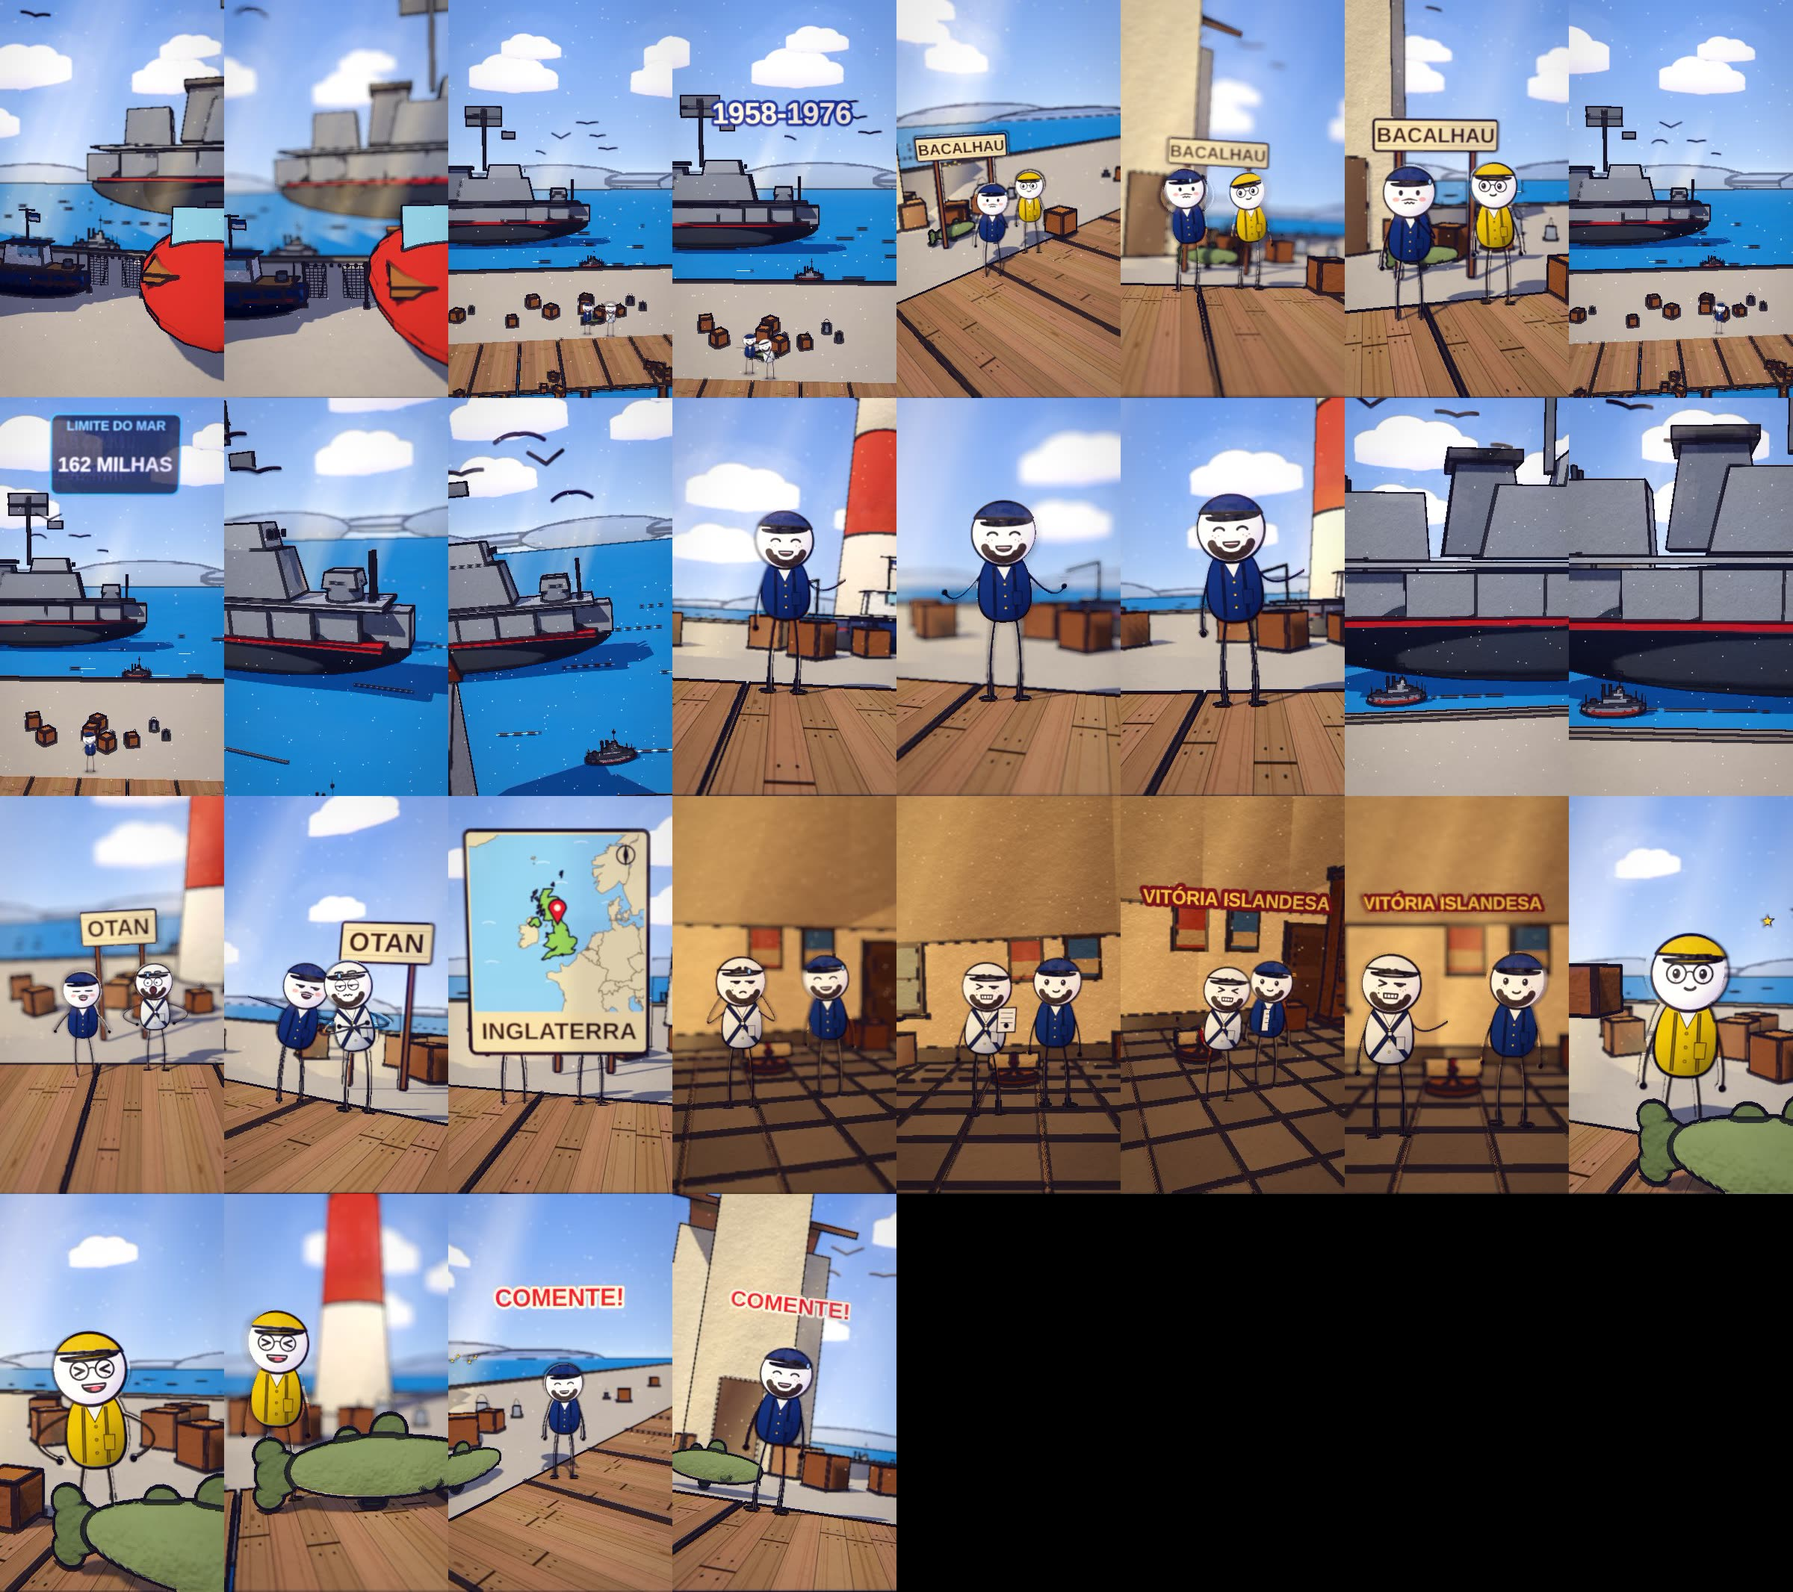
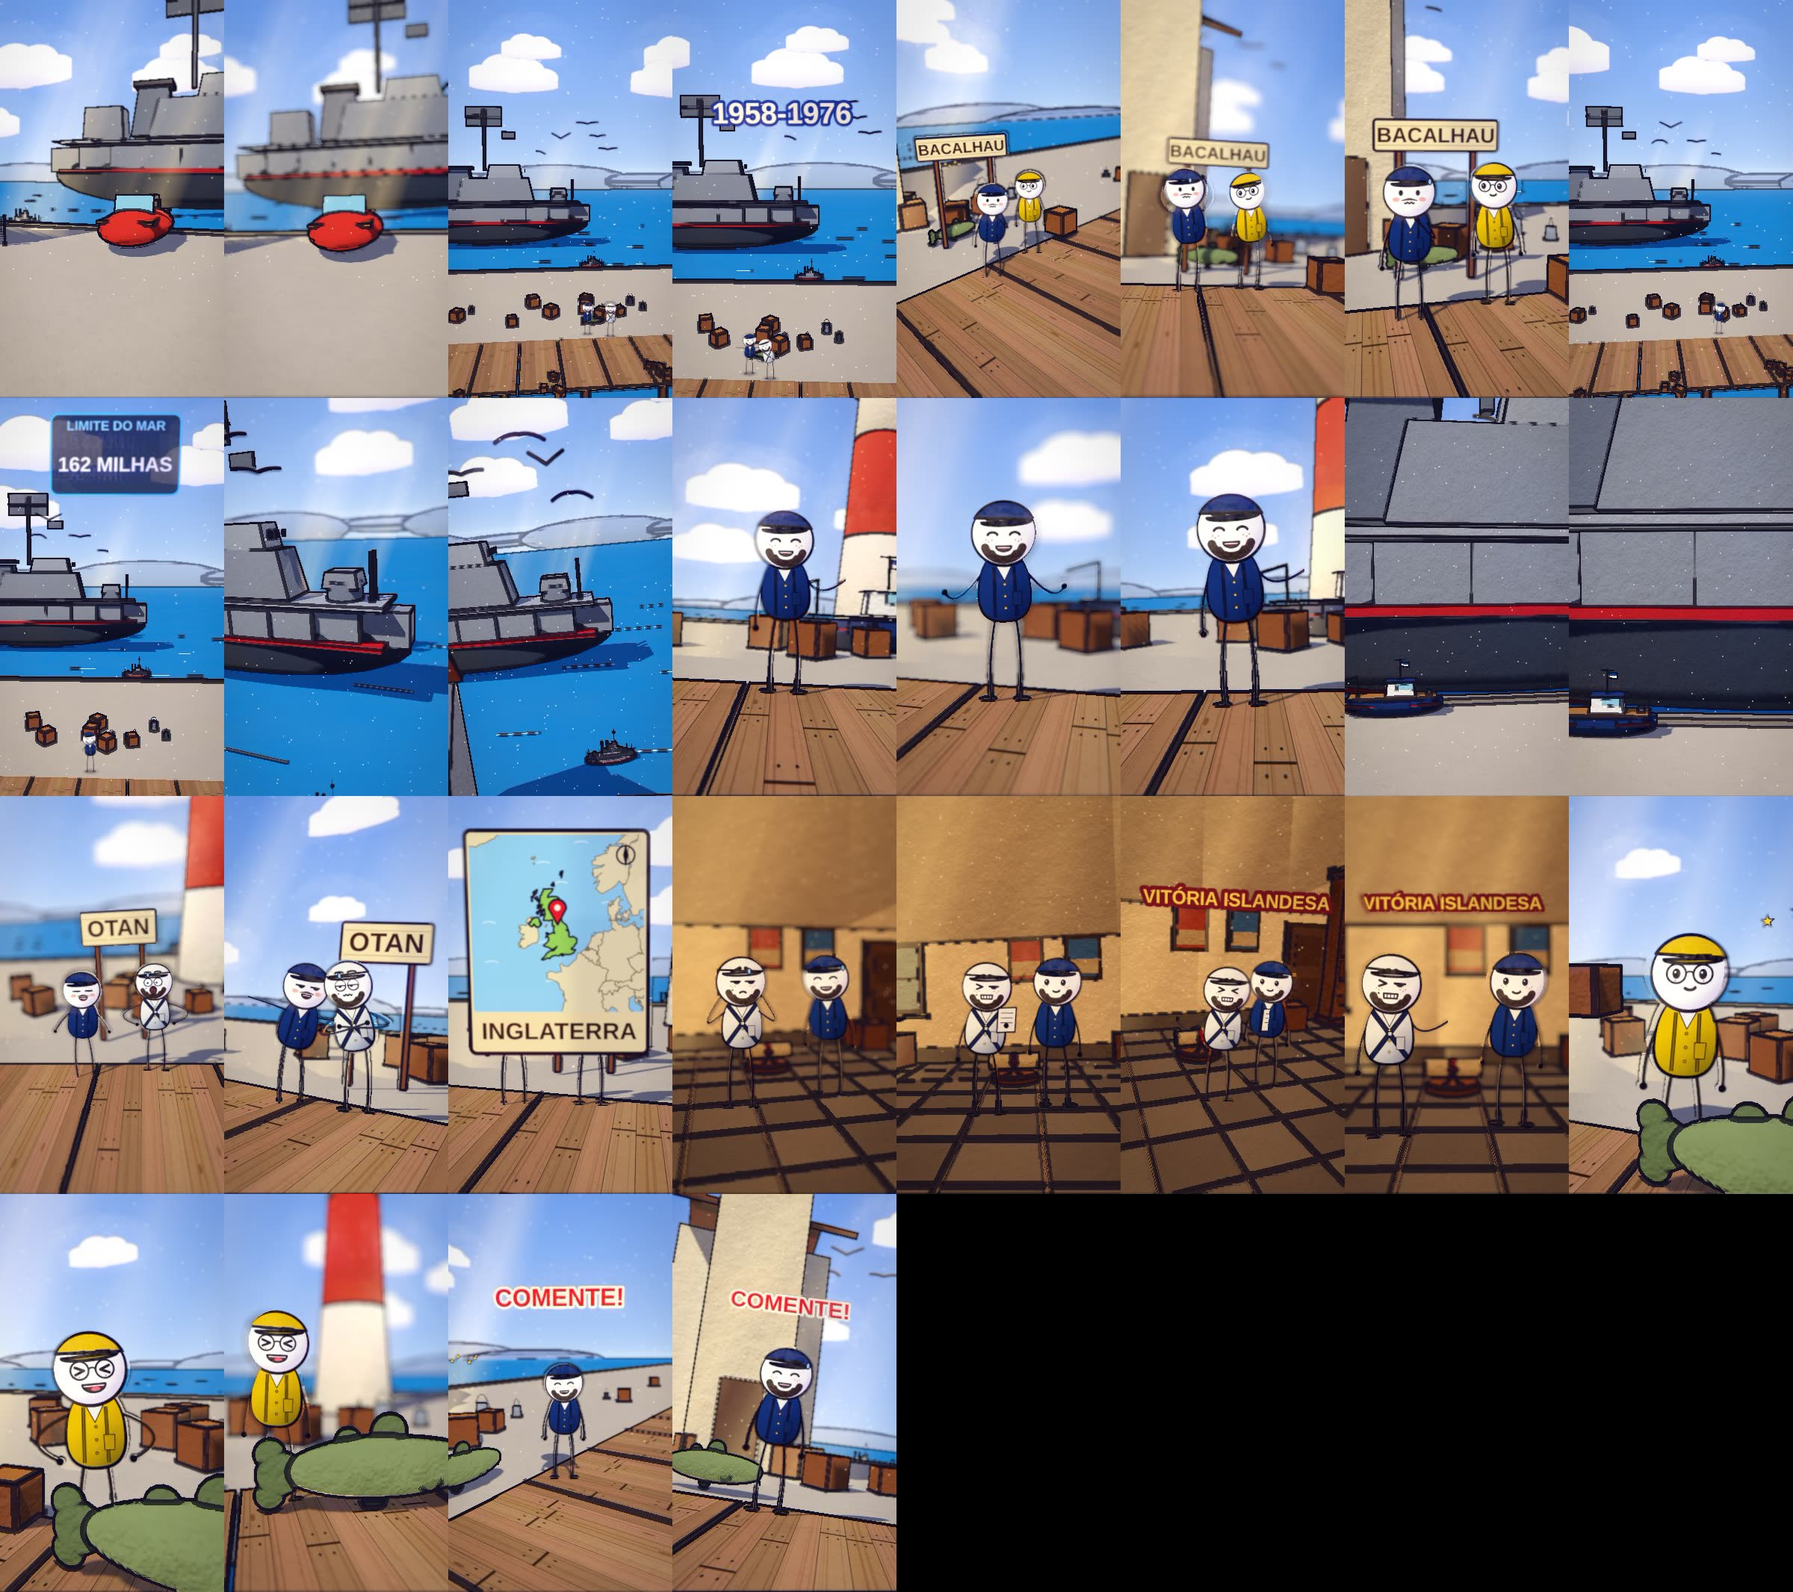
progresso bacalhau1958
Claude-Session: https://claude.ai/code/session_01HE8Dy2wiQov2uhW6ZYikBX

Changed region(s): [[0.75, 0.2477, 1.0, 0.4644], [0.0, 0.0, 0.25, 0.2477]]

diff --git a/ferramenta-shorts/stories/bacalhau1958/spec.js b/ferramenta-shorts/stories/bacalhau1958/spec.js
@@ -12,7 +12,7 @@ const SPEC = {
   assets: ["buildings/lighthouse", "buildings/shop", "crate", "kit/barco_guarda", "kit/cod", "kit/fishing_net", "kit/navio_encouracado", "kit/navio_leander", "kit/room_europa_stone", "kit/scroll", "mk/Bookcase_2", "mk/Chair_1", "mk/Chest_Wood", "mk/Table_Large", "ship", "vehicles/motorboat"],
   kicks: [], flashes: [],
   shots: [
-    S('b0', A[0], A[1] - 1, X, "day", { h: 4.0, d0: 20, d1: 17, az0: -6, az1: 8, cx: 9, cz: -14, actors: [], props: [{ asset: "buildings/shop", at: [X + -4.8, -11.0], s: 1.05, ry: 0.35, drop: false }, { asset: "kit/barco_guarda", at: [X + 5, -13], s: 1.45, drop: false }, { asset: "kit/fishing_net", at: [X + 9, -14], s: 1.0, drop: false }, { asset: "vehicles/motorboat", at: [X + 17, -18], s: 2.34 }, { asset: "kit/navio_leander", at: [X + 20, -42], s: 8.1, drop: false }, { asset: "kit/cod", at: [X + -1.7, -0.5], s: 1.3, drop: false }], fx: [{ k: 'stars', a: A[0] + 6, b: A[0] + 40, at: [X + -1.7, DK + 1.6, 0.0], s: 0.8 }, { k: 'birds', a: A[0], b: A[1] - 1, at: [X, DK + 4.5, -30], n: 4, dir: 1, off: 8 }, txt(X, WS(16, -2), A[1] - 1, "ISLÂNDIA VENCEU", '#fff6e0', '#27408b', 4.5, { s: 1.5, up: 0.46 }), { k: "splash", a: A[0] + 40, b: A[0] + 66, at: [X, DK + 0.5, 1.2], s: 1.1 }] }),
+    S('b0', A[0], A[1] - 1, X, "day", { h: 4.0, d0: 20, d1: 17, az0: -6, az1: 8, cx: 9, cz: -14, actors: [], props: [{ asset: "buildings/shop", at: [X + -4.8, -11.0], s: 1.05, ry: 0.35, drop: false }, { asset: "kit/barco_guarda", at: [X + 5, -13], s: 1.45, drop: false }, { asset: "vehicles/motorboat", at: [X + 13, -15], s: 3.16 }, { asset: "kit/fishing_net", at: [X + 9, -14], s: 1.0, drop: false }, { asset: "kit/navio_leander", at: [X + 18, -42], s: 8.1, drop: false }, { asset: "kit/cod", at: [X + -1.7, -0.5], s: 1.3, drop: false }], fx: [{ k: 'stars', a: A[0] + 6, b: A[0] + 40, at: [X + -1.7, DK + 1.6, 0.0], s: 0.8 }, { k: 'birds', a: A[0], b: A[1] - 1, at: [X, DK + 4.5, -30], n: 4, dir: 1, off: 8 }, txt(X, WS(16, -2), A[1] - 1, "ISLÂNDIA VENCEU", '#fff6e0', '#27408b', 4.5, { s: 1.5, up: 0.46 }), { k: "splash", a: A[0] + 40, b: A[0] + 66, at: [X, DK + 0.5, 1.2], s: 1.1 }] }),
     { ...S('b1', A[1], A[2] - 1, X, "day", { h: 9.0, d0: 50, d1: 44, el: 5, fov: 46, cx: 0, cz: -40, punches: [{ f: WS(25), amt: 0.11, dur: 20 }], hero: { hero: 'none', wide: true }, vary: false, nocut: true, trans: 'dissolve', actors: [_MA(_MA(pp(X, "ICE", 0, -1.0, -0.4, "stern"), { gests: [[WS(25) - 8, WS(25) + 46, 'push']] }), { inters: [{ k: 'shove', a: WS(25) - 10, b: WS(25) + 24, dir: 1, n: 1, ph: 0 }] }), _MA(pp(X, "BRI", 0, 1.0, 0.2, "stern"), { inters: [{ k: 'stagger', a: WS(25) - 6, b: WS(25) + 32, dir: 1, n: 1, ph: 0 }] })], props: [{ asset: "kit/navio_leander", at: [X + -14, -42], s: 8.1, drop: false }, { asset: "kit/cod", at: [X + 0.0, -2.3], s: 1.0, drop: false }], fx: [{ k: 'birds', a: A[1], b: A[2] - 1, at: [X, DK + 6.0, -30], n: 5, dir: 1, off: 15 }, txt(X, WS(25, -2), A[2] - 1, "1958-1976", '#fff6e0', '#27408b', 4.6, { s: 1.5, up: 0.42 }), { k: 'puff', a: WS(25), b: WS(25) + 20, at: [X + 0.0, DK + 1.8, 1.7], s: 0.9 }] }), nocut: true },
     S('b2', A[2], A[3] - 1, X, "day", { h: 2.3, d0: 9.8, d1: 8.8, az0: -26, az1: -12, vary: false, hero: { hero: 'any', frame: 'medium', minH: 0.07, main: 2 }, trans: 'dissolve', actors: [_MA(pp(X, "ICE", 1, -1.0, 1.3, "nervous", { pose: 'react', inter: { k: 'nod', a: Math.round(A[2] + (A[3] - 1 - (A[2])) * 0.12), b: Math.round(A[2] + (A[3] - 1 - (A[2])) * 0.82), dir: 1, n: 2, ph: 0 } }), { gests: [[WS(38) - 8, WS(38) + 46, 'lift']] }), pp(X, "PES", 0, 1.0, 1.0, "grin", { pose: 'talk', inter: { k: 'lean', a: Math.round(A[2] + (A[3] - 1 - (A[2])) * 0.2), b: Math.round(A[2] + (A[3] - 1 - (A[2])) * 0.9), dir: -1, n: 2, ph: 3.14 } })], props: [{ asset: "buildings/shop", at: [X + -4.8, -11.0], s: 1.05, ry: 0.35, drop: false }, { asset: "crate", at: [X + 2.8, 0.8], s: 1.1 }, { asset: "kit/cod", at: [X + 0.0, -2.3], s: 1.0, drop: false }], fx: [{ k: 'stars', a: A[2] + 6, b: A[2] + 40, at: [X + 0.0, DK + 1.6, -1.8], s: 0.8 }, { k: 'birds', a: A[2], b: A[3] - 1, at: [X, DK + 7.5, -30], n: 6, dir: -1, off: 8 }, { k: 'text', a: A[2], b: A[3] - 1, at: [X + 0.0, DK, -1.3], text: "BACALHAU", s: 2.625, col: '#3a2416', size: 120, board: true }, { k: "splash", a: WS(38) + 3, b: WS(38) + 30, at: [X + -0.4, DK + 1.6, 1.7], s: 0.6 }] }),
     { ...S('b3', A[3], A[4] - 1, X, "day", { h: 9.0, d0: 50, d1: 44, el: 5, fov: 46, cx: 0, cz: -40, hero: { hero: 'none', wide: true }, vary: false, nocut: true, trans: 'dissolve', actors: [pp(X, "ICE", 2, 0.0, -0.4, "stern")], props: [{ asset: "kit/navio_leander", at: [X + -14, -42], s: 8.1, drop: false }], fx: [{ k: "contador", a: WS(51, -3), b: A[4] - 1, de: 12, para: 200, un: "MILHAS", titulo: "LIMITE DO MAR", dur: 96, dec: 0, up: 0.6 }, { k: 'birds', a: A[3], b: A[4] - 1, at: [X, DK + 4.5, -30], n: 4, dir: -1, off: 15 }] }), nocut: true },

diff --git a/ferramenta-shorts/web/story.js b/ferramenta-shorts/web/story.js
@@ -33,7 +33,7 @@ const SPEC = {
   assets: ["buildings/lighthouse", "buildings/shop", "crate", "kit/barco_guarda", "kit/cod", "kit/fishing_net", "kit/navio_encouracado", "kit/navio_leander", "kit/room_europa_stone", "kit/scroll", "mk/Bookcase_2", "mk/Chair_1", "mk/Chest_Wood", "mk/Table_Large", "ship", "vehicles/motorboat"],
   kicks: [], flashes: [],
   shots: [
-    S('b0', A[0], A[1] - 1, X, "day", { h: 4.0, d0: 20, d1: 17, az0: -6, az1: 8, cx: 9, cz: -14, actors: [], props: [{ asset: "buildings/shop", at: [X + -4.8, -11.0], s: 1.05, ry: 0.35, drop: false }, { asset: "kit/barco_guarda", at: [X + 5, -13], s: 1.45, drop: false }, { asset: "kit/fishing_net", at: [X + 9, -14], s: 1.0, drop: false }, { asset: "vehicles/motorboat", at: [X + 17, -18], s: 2.34 }, { asset: "kit/navio_leander", at: [X + 20, -42], s: 8.1, drop: false }, { asset: "kit/cod", at: [X + -1.7, -0.5], s: 1.3, drop: false }], fx: [{ k: 'stars', a: A[0] + 6, b: A[0] + 40, at: [X + -1.7, DK + 1.6, 0.0], s: 0.8 }, { k: 'birds', a: A[0], b: A[1] - 1, at: [X, DK + 4.5, -30], n: 4, dir: 1, off: 8 }, txt(X, WS(16, -2), A[1] - 1, "ISLÂNDIA VENCEU", '#fff6e0', '#27408b', 4.5, { s: 1.5, up: 0.46 }), { k: "splash", a: A[0] + 40, b: A[0] + 66, at: [X, DK + 0.5, 1.2], s: 1.1 }] }),
+    S('b0', A[0], A[1] - 1, X, "day", { h: 4.0, d0: 20, d1: 17, az0: -6, az1: 8, cx: 9, cz: -14, actors: [], props: [{ asset: "buildings/shop", at: [X + -4.8, -11.0], s: 1.05, ry: 0.35, drop: false }, { asset: "kit/barco_guarda", at: [X + 5, -13], s: 1.45, drop: false }, { asset: "vehicles/motorboat", at: [X + 13, -15], s: 3.16 }, { asset: "kit/fishing_net", at: [X + 9, -14], s: 1.0, drop: false }, { asset: "kit/navio_leander", at: [X + 18, -42], s: 8.1, drop: false }, { asset: "kit/cod", at: [X + -1.7, -0.5], s: 1.3, drop: false }], fx: [{ k: 'stars', a: A[0] + 6, b: A[0] + 40, at: [X + -1.7, DK + 1.6, 0.0], s: 0.8 }, { k: 'birds', a: A[0], b: A[1] - 1, at: [X, DK + 4.5, -30], n: 4, dir: 1, off: 8 }, txt(X, WS(16, -2), A[1] - 1, "ISLÂNDIA VENCEU", '#fff6e0', '#27408b', 4.5, { s: 1.5, up: 0.46 }), { k: "splash", a: A[0] + 40, b: A[0] + 66, at: [X, DK + 0.5, 1.2], s: 1.1 }] }),
     { ...S('b1', A[1], A[2] - 1, X, "day", { h: 9.0, d0: 50, d1: 44, el: 5, fov: 46, cx: 0, cz: -40, punches: [{ f: WS(25), amt: 0.11, dur: 20 }], hero: { hero: 'none', wide: true }, vary: false, nocut: true, trans: 'dissolve', actors: [_MA(_MA(pp(X, "ICE", 0, -1.0, -0.4, "stern"), { gests: [[WS(25) - 8, WS(25) + 46, 'push']] }), { inters: [{ k: 'shove', a: WS(25) - 10, b: WS(25) + 24, dir: 1, n: 1, ph: 0 }] }), _MA(pp(X, "BRI", 0, 1.0, 0.2, "stern"), { inters: [{ k: 'stagger', a: WS(25) - 6, b: WS(25) + 32, dir: 1, n: 1, ph: 0 }] })], props: [{ asset: "kit/navio_leander", at: [X + -14, -42], s: 8.1, drop: false }, { asset: "kit/cod", at: [X + 0.0, -2.3], s: 1.0, drop: false }], fx: [{ k: 'birds', a: A[1], b: A[2] - 1, at: [X, DK + 6.0, -30], n: 5, dir: 1, off: 15 }, txt(X, WS(25, -2), A[2] - 1, "1958-1976", '#fff6e0', '#27408b', 4.6, { s: 1.5, up: 0.42 }), { k: 'puff', a: WS(25), b: WS(25) + 20, at: [X + 0.0, DK + 1.8, 1.7], s: 0.9 }] }), nocut: true },
     S('b2', A[2], A[3] - 1, X, "day", { h: 2.3, d0: 9.8, d1: 8.8, az0: -26, az1: -12, vary: false, hero: { hero: 'any', frame: 'medium', minH: 0.07, main: 2 }, trans: 'dissolve', actors: [_MA(pp(X, "ICE", 1, -1.0, 1.3, "nervous", { pose: 'react', inter: { k: 'nod', a: Math.round(A[2] + (A[3] - 1 - (A[2])) * 0.12), b: Math.round(A[2] + (A[3] - 1 - (A[2])) * 0.82), dir: 1, n: 2, ph: 0 } }), { gests: [[WS(38) - 8, WS(38) + 46, 'lift']] }), pp(X, "PES", 0, 1.0, 1.0, "grin", { pose: 'talk', inter: { k: 'lean', a: Math.round(A[2] + (A[3] - 1 - (A[2])) * 0.2), b: Math.round(A[2] + (A[3] - 1 - (A[2])) * 0.9), dir: -1, n: 2, ph: 3.14 } })], props: [{ asset: "buildings/shop", at: [X + -4.8, -11.0], s: 1.05, ry: 0.35, drop: false }, { asset: "crate", at: [X + 2.8, 0.8], s: 1.1 }, { asset: "kit/cod", at: [X + 0.0, -2.3], s: 1.0, drop: false }], fx: [{ k: 'stars', a: A[2] + 6, b: A[2] + 40, at: [X + 0.0, DK + 1.6, -1.8], s: 0.8 }, { k: 'birds', a: A[2], b: A[3] - 1, at: [X, DK + 7.5, -30], n: 6, dir: -1, off: 8 }, { k: 'text', a: A[2], b: A[3] - 1, at: [X + 0.0, DK, -1.3], text: "BACALHAU", s: 2.625, col: '#3a2416', size: 120, board: true }, { k: "splash", a: WS(38) + 3, b: WS(38) + 30, at: [X + -0.4, DK + 1.6, 1.7], s: 0.6 }] }),
     { ...S('b3', A[3], A[4] - 1, X, "day", { h: 9.0, d0: 50, d1: 44, el: 5, fov: 46, cx: 0, cz: -40, hero: { hero: 'none', wide: true }, vary: false, nocut: true, trans: 'dissolve', actors: [pp(X, "ICE", 2, 0.0, -0.4, "stern")], props: [{ asset: "kit/navio_leander", at: [X + -14, -42], s: 8.1, drop: false }], fx: [{ k: "contador", a: WS(51, -3), b: A[4] - 1, de: 12, para: 200, un: "MILHAS", titulo: "LIMITE DO MAR", dur: 96, dec: 0, up: 0.6 }, { k: 'birds', a: A[3], b: A[4] - 1, at: [X, DK + 4.5, -30], n: 4, dir: -1, off: 15 }] }), nocut: true },

diff --git a/ferramenta-shorts/stories/bacalhau1958/cronograma.md b/ferramenta-shorts/stories/bacalhau1958/cronograma.md
@@ -1,6 +1,6 @@
 # CRONOGRAMA - Guerras Inusitadas EP 25 - As Guerras do Bacalhau
 
-Gerado em 24/11 13:45 | 11 cenas | metricas: acoes_encenadas 100%, acoes_chave_com_efeito 100%, explicacoes_cobertas 100%, cenario_e_epoca_ok 100%
+Gerado em 24/11 13:47 | 11 cenas | metricas: acoes_encenadas 100%, acoes_chave_com_efeito 100%, explicacoes_cobertas 100%, cenario_e_epoca_ok 100%
 
 ## 1. Plano de cenas (o que cada frase vai mostrar)
 
@@ -27,9 +27,9 @@ N | Etapa | O que confere | Estado | Proximo passo
 3 | Modelagem do que falta | todo objeto das cenas existe na biblioteca 3D, da epoca e no tamanho real | FEITO | 
 4 | Travas do roteiro | folha 2 com 0 risco e folha 3 com 0 acao faltando (riscos agora: 0) | FEITO | 
 5 | Voz | narracao neural gerada e tempos por palavra | FEITO | 
-6 | Estilo e enquadramento | autoajuste de luz/cor e ajuste de camera de cada tomada | FEITO | 
-7 | Gates | camera OK, todas as tomadas OK, estilo OK | FEITO | 
-8 | Storyboard e grade de acoes | video inteiro em quadros + 1 quadro no instante de cada acao | PENDENTE | 
+6 | Estilo e enquadramento | autoajuste de luz/cor e ajuste de camera de cada tomada | PENDENTE | 
+7 | Gates | camera OK, todas as tomadas OK, estilo OK | BLOQUEADO (etapa anterior pendente) | 
+8 | Storyboard e grade de acoes | video inteiro em quadros + 1 quadro no instante de cada acao | BLOQUEADO (etapa anterior pendente) | 
 9 | Revisao escrita e aprovacao | uma linha por frase conferindo com a folha 3 e com o quadro da pesquisa | BLOQUEADO (etapa anterior pendente) | ./aprovar_storyboard.sh bacalhau1958
 10 | Render | todos os quadros renderizados nesta versao das folhas | BLOQUEADO (etapa anterior pendente) | 
 11 | Montagem e som | trechos + voz + musica + efeitos; volume normalizado | BLOQUEADO (etapa anterior pendente) | 
@@ -37,5 +37,5 @@ N | Etapa | O que confere | Estado | Proximo passo
 13 | Auditoria das acoes | 1 quadro do mp4 em cada palavra de acao | REFAZER (a etapa anterior mudou) | bash auditar_acoes.sh local bacalhau1958 <mp4>
 14 | Entrega | mp4 original 1080x1920 enviado; commit e push | BLOQUEADO (etapa anterior pendente) | 
 
-**Etapa atual:** 8. Storyboard e grade de acoes
+**Etapa atual:** 6. Estilo e enquadramento
 

diff --git a/ferramenta-shorts/stories/bacalhau1958/folha2_producao.md b/ferramenta-shorts/stories/bacalhau1958/folha2_producao.md
@@ -8,7 +8,7 @@ Coordenadas de cada cena para modelagem, animacao e camera, com os RISCOS que o 
 - Takes: 2 take(s) de ~1,8 s, deslizando de um para o outro: frente -> 3/4 pela direita, mais perto e mais baixo
 - Personagens principais (0): -
 - Animacao: - | batalha encenada
-- Objetos/modelos: kit/barco_guarda, kit/fishing_net, vehicles/motorboat, kit/navio_leander
+- Objetos/modelos: kit/barco_guarda, vehicles/motorboat, kit/fishing_net, kit/navio_leander
 - CONFERIR NA FOLHA DE CONTATO (o que a narracao cita tem que aparecer): cortador, islandia, marinha, rede
 - RISCOS: nenhum
 
@@ -118,8 +118,8 @@ Regra: todo objeto, utensilio, veiculo e animal que aparece e' modelo 3D feito n
 Objeto | Cenas | Situacao | O que fazer
 ---|---|---|---
 kit/barco_guarda | b0, b5, b6 | pronto | conferir na folha de contato se le bem; se parecer caixote, refazer com formas.py
-kit/fishing_net | b0 | pronto | conferir na folha de contato se le bem; se parecer caixote, refazer com formas.py
 vehicles/motorboat | b0 | pronto | conferir na folha de contato se le bem; se parecer caixote, refazer com formas.py
+kit/fishing_net | b0 | pronto | conferir na folha de contato se le bem; se parecer caixote, refazer com formas.py
 kit/navio_leander | b0, b1, b3, b4, b6 | pronto | conferir na folha de contato se le bem; se parecer caixote, refazer com formas.py
 kit/cod | b1, b2, b9 | pronto (HEROI: aparece em close) | conferir na folha de contato se le bem; se parecer caixote, refazer com formas.py
 crate | b2, b9 | pronto | conferir na folha de contato se le bem; se parecer caixote, refazer com formas.py

diff --git a/ferramenta-shorts/stories/bacalhau1958/folha4_pesquisa.md b/ferramenta-shorts/stories/bacalhau1958/folha4_pesquisa.md
@@ -8,7 +8,7 @@ Raio-X do roteiro: o que este video precisa ter de referencia ANTES de modelar, 
 - HEROIS (personagens): ICE, BRI, PES
 - Cenarios: harbor, interior pedra
 - Proibido pela epoca: barril, canhao antigo, caravela, carro antigo, carroca, castical, escudo, fragata a vela, galera a remo, lampiao, navio a vapor de guerra, navio a vela, tambor de guerra
-- Tamanho real aplicado: kit/barco_guarda: 5.0 m reais -> escala 1.45 (estava 1.0: pequeno demais); kit/navio_leander: 30.0 m reais -> escala 8.1 (estava 1.0: pequeno demais); kit/navio_encouracado: 30.0 m reais -> escala 8.44 (estava 0.8: pequeno demais); kit/navio_encouracado: 30.0 m reais -> escala 8.44 (estava 0.7: pequeno demais)
+- Tamanho real aplicado: kit/barco_guarda: 5.0 m reais -> escala 1.45 (estava 1.0: pequeno demais); vehicles/motorboat: 5.0 m reais -> escala 3.16 (estava 1.0: pequeno demais); kit/navio_leander: 30.0 m reais -> escala 8.1 (estava 1.0: pequeno demais); kit/navio_encouracado: 30.0 m reais -> escala 8.44 (estava 0.8: pequeno demais); kit/navio_encouracado: 30.0 m reais -> escala 8.44 (estava 0.7: pequeno demais)
 
 ## Itens pesquisados
 

diff --git a/ferramenta-shorts/stories/bacalhau1958/autocorrecoes.md b/ferramenta-shorts/stories/bacalhau1958/autocorrecoes.md
@@ -65,3 +65,12 @@
 
 ## 24/11 13:43 autocorrecao de visibilidade
 - b6: objeto citado "kit/barco_guarda" nao aparece na tela (escondido, fora do quadro ou pequeno demais) -> close no objeto
+
+## 24/11 13:45 autocorrecao de visibilidade
+- b0: objeto citado "vehicles/motorboat" nao aparece na tela (escondido, fora do quadro ou pequeno demais) -> camera em plano aberto mirando o objeto (cx 17.0, cz -12.6), sem multidao na frente
+
+## 24/11 13:46 autocorrecao de visibilidade
+- b0: objeto citado "kit/barco_guarda" nao aparece na tela (escondido, fora do quadro ou pequeno demais) -> objeto na frente dos personagens e maior
+
+## 24/11 13:46 autocorrecao de visibilidade
+- b0: objeto citado "kit/barco_guarda" nao aparece na tela (escondido, fora do quadro ou pequeno demais) -> close no objeto

diff --git a/ferramenta-shorts/stories/bacalhau1958/preproducao.md b/ferramenta-shorts/stories/bacalhau1958/preproducao.md
@@ -4,7 +4,7 @@ Leia ANTES de renderizar. Tudo que estiver em "FALTA" deve ser modelado no Blend
 
 Cena | Cenario | Plano | Personagens | Acao dos personagens | Objetos em cena | Na mao | Falta
 ---|---|---|---|---|---|---|---
-b0 | harbor | two | 0 | batalha | kit/barco_guarda, kit/fishing_net, vehicles/motorboat, kit/navio_leander | - | -
+b0 | harbor | two | 0 | batalha | kit/barco_guarda, vehicles/motorboat, kit/fishing_net, kit/navio_leander | - | -
 b1 | harbor | wide | 2 | encena | kit/navio_leander, kit/cod | - | -
 b2 | harbor | two | 2 | reagir, INTERAGEM: o outro se aproxima | crate, kit/cod | - | -
 b3 | harbor | wide | 1 | parados (so fala e pisca) | kit/navio_leander | - | -
